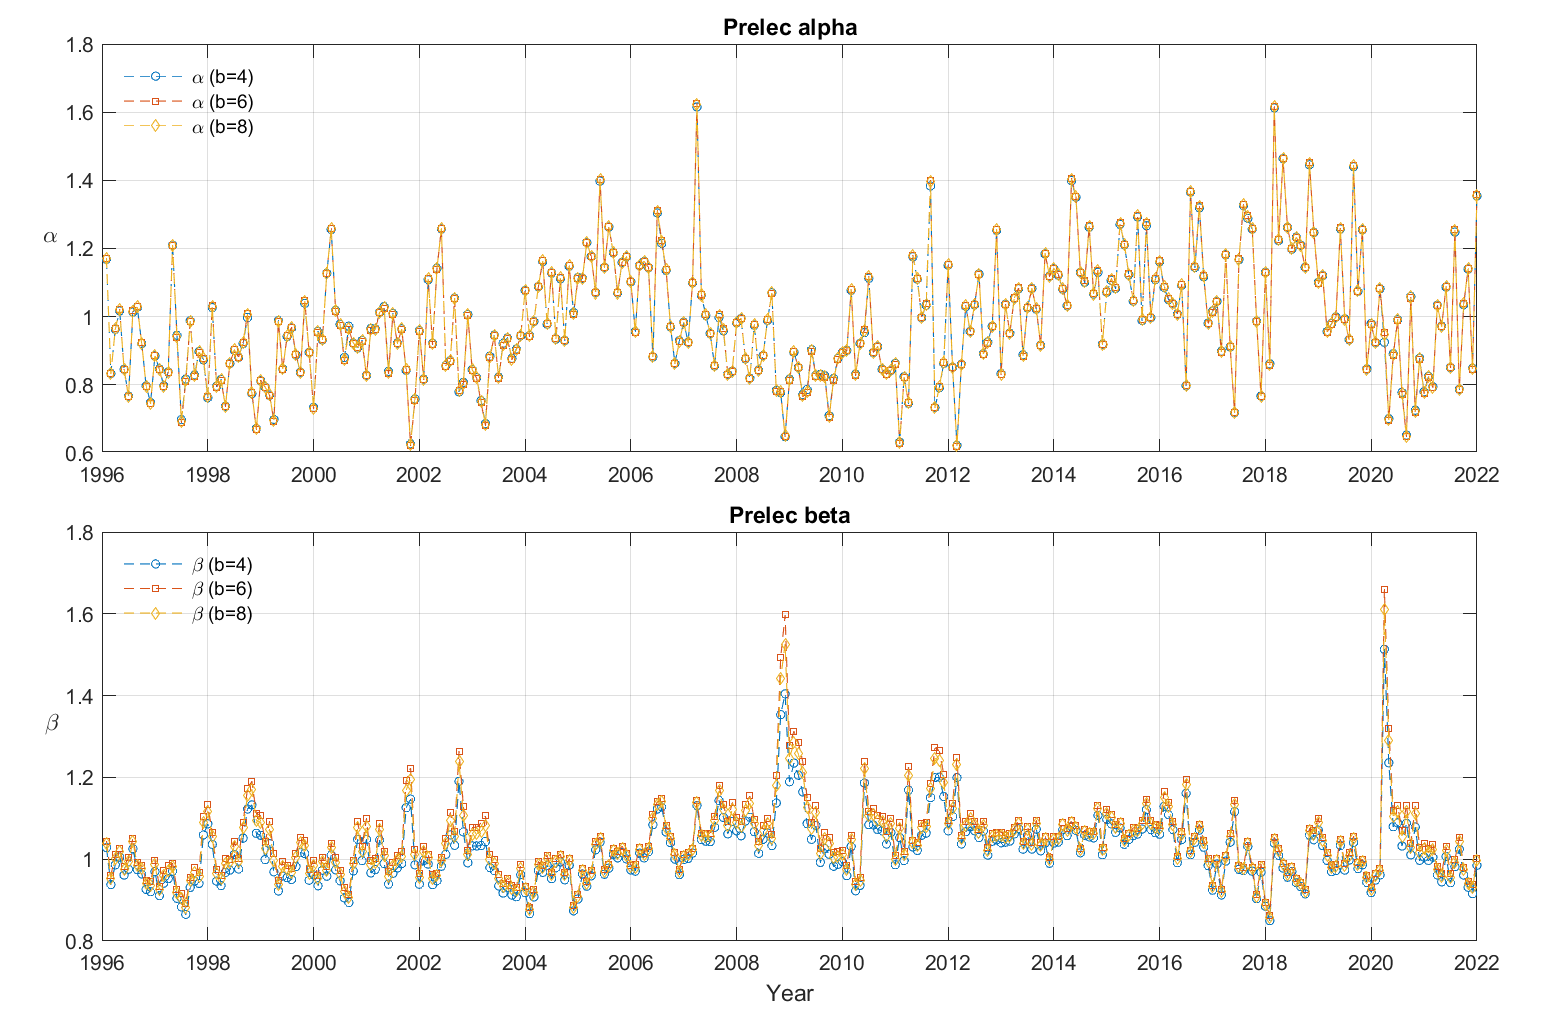
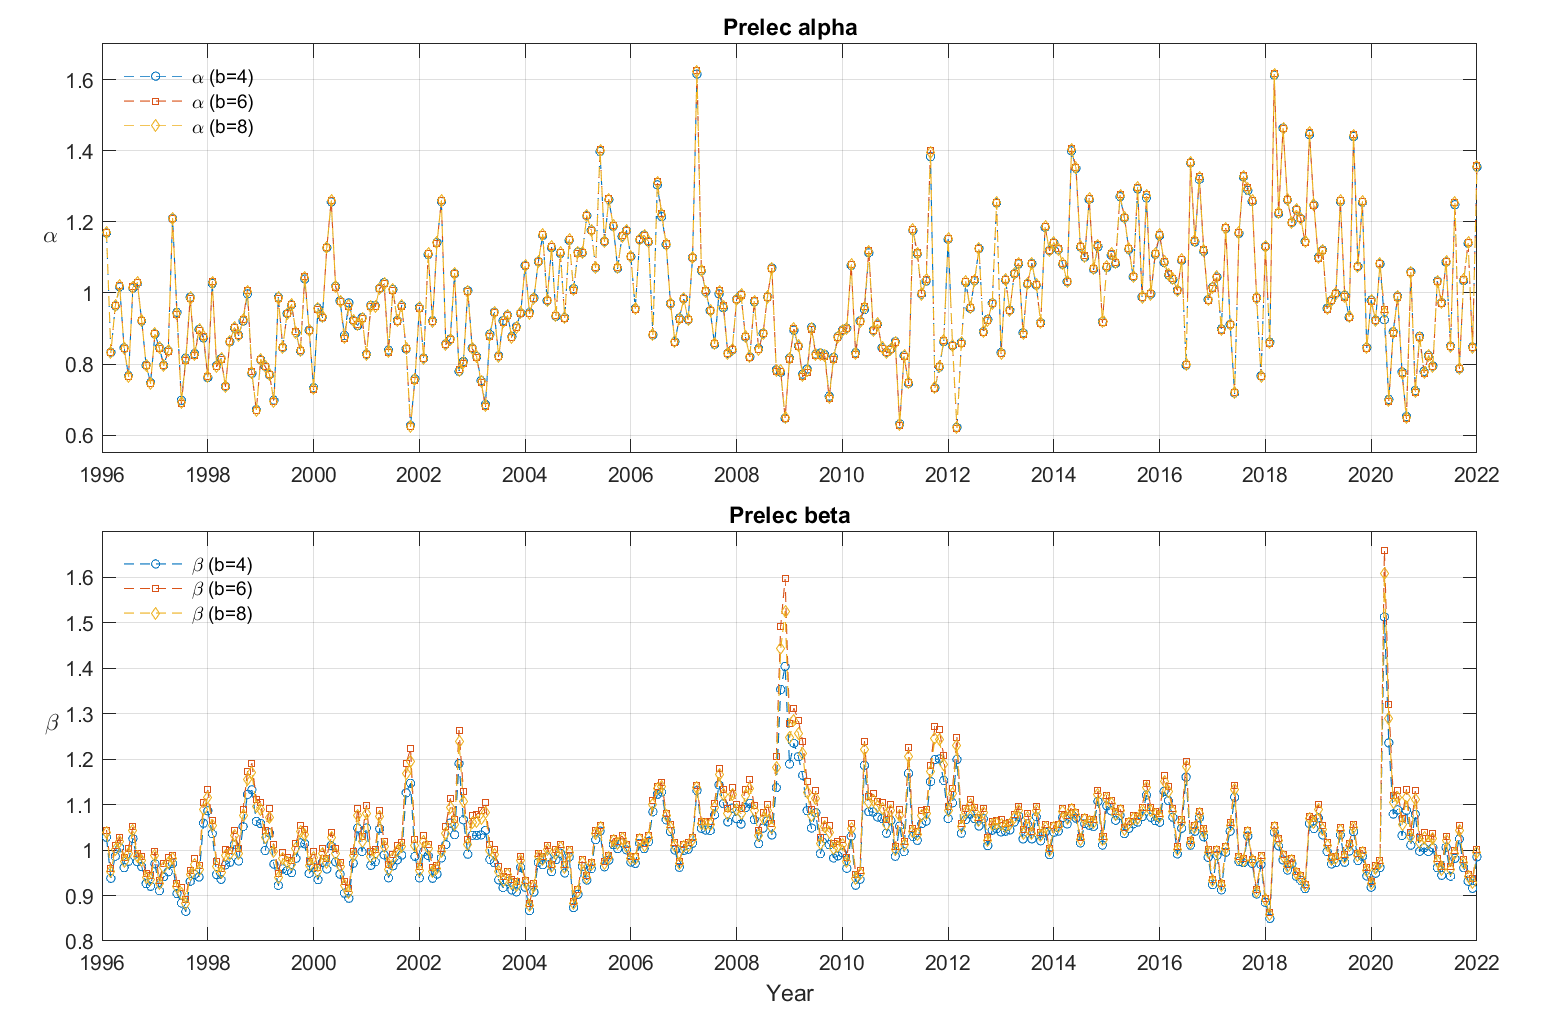
Adjusted y-axis limits for Prelec parameter plots (alpha and beta)

diff --git a/08  變形函數（Distortion Function）/Procedure__Estimate_Distortion_Function_Parameters_Monthly.m b/08  變形函數（Distortion Function）/Procedure__Estimate_Distortion_Function_Parameters_Monthly.m
@@ -230,6 +230,7 @@ title('Prelec alpha');
 ylabel('\alpha', 'Rotation', 0, 'HorizontalAlignment', 'right');
 legend('Location', 'northwest', 'Box', 'Off');
 xlim([1996, 2022]);
+ylim([0.55, 1.7]);
 xticks(1996:2:2022);
 grid on;
 
@@ -245,6 +246,7 @@ xlabel('Year');
 ylabel('\beta', 'Rotation', 0, 'HorizontalAlignment', 'right');
 legend('Location', 'northwest', 'Box', 'Off');
 xlim([1996, 2022]);
+ylim([0.8, 1.7]);
 xticks(1996:2:2022);
 grid on;
 
